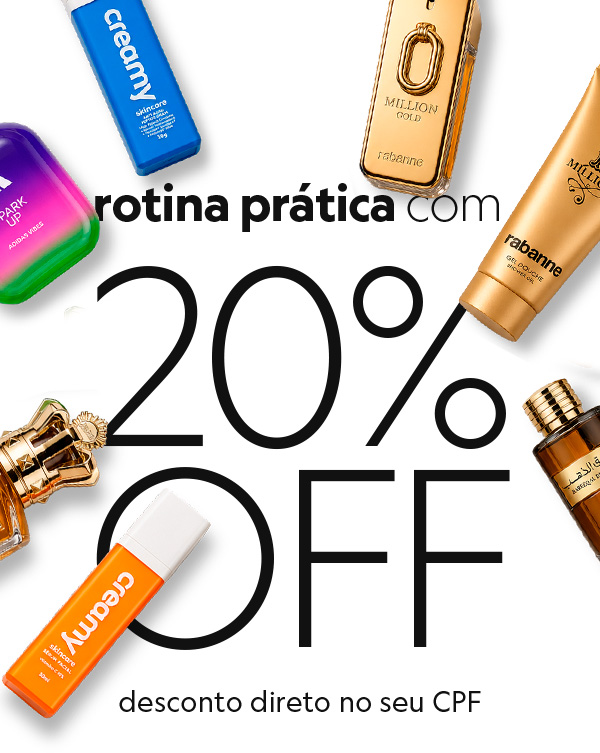
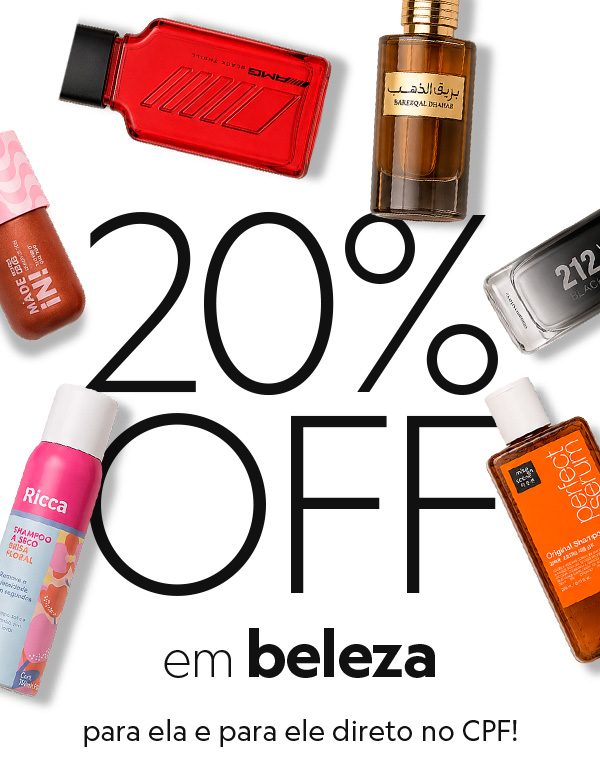
as

diff --git a/index.html b/index.html
@@ -88,10 +88,10 @@
           <tr>
             <td align="center" style="padding: 0px 0px 30px 0px;">
               <font face="Inter, sans-serif" style="font-size: 21px; line-height: 1.2; color:#111111; display: block;" class="font17">
-                Cuidar de você não precisa ser complicado! Selecionamos um benefício especial de 20% de desconto na sua primeira compra de Beleza C&A, para garantir seus perfumes importados preferidos e produtos de uso diário.
+                Seu momento de autocuidado ficou ainda melhor.
                 <br>
                 <br>
-                O desconto já está ativado no seu CPF, aproveite!
+                Liberamos 20% OFF na sua primeira compra em Beleza C&A, com o desconto já ativado diretamente no seu CPF. É só escolher seus favoritos e aproveitar, sem precisar de cupom!
               </font>
             </td>
           </tr>
@@ -174,7 +174,7 @@
                         <td align="center" style="padding: 10px 0px 0px 0px;">
                           <font face="Inter, sans-serif" style="font-size: 20px; line-height: 1.2; color:#000000; display: block;" class="font17">
                             <a href="#" target="_blank">
-                              <b>Perfumaria</b>
+                              <b>Beleza para elas</b>
                             </a>
                           </font>
                         </td>
@@ -194,7 +194,7 @@
                         <td align="center" style="padding: 10px 0px 0px 0px;">
                           <font face="Inter, sans-serif" style="font-size: 20px; line-height: 1.2; color:#000000; display: block;" class="font17">
                             <a href="#" target="_blank">
-                              <b>Cuidados Masculinos</b>
+                              <b>Beleza para eles</b>
                             </a>
                           </font>
                         </td>